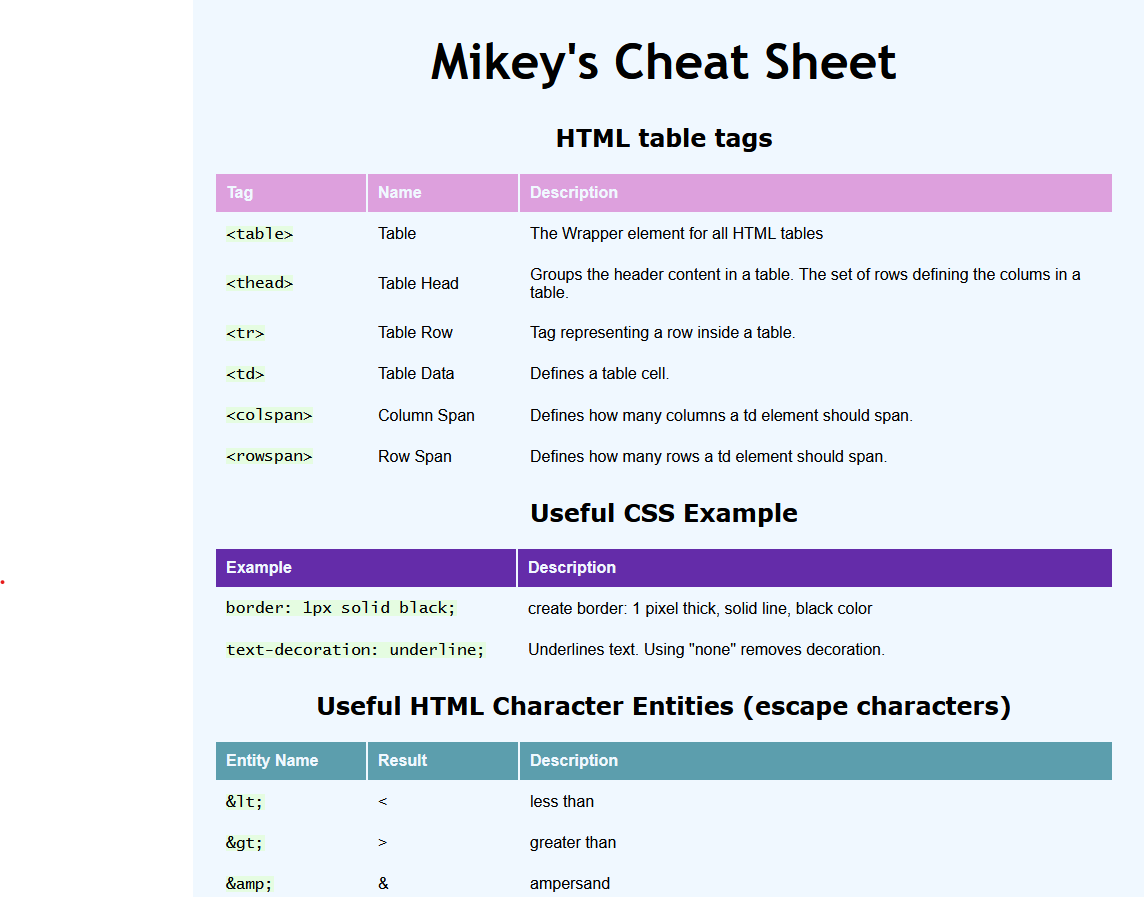
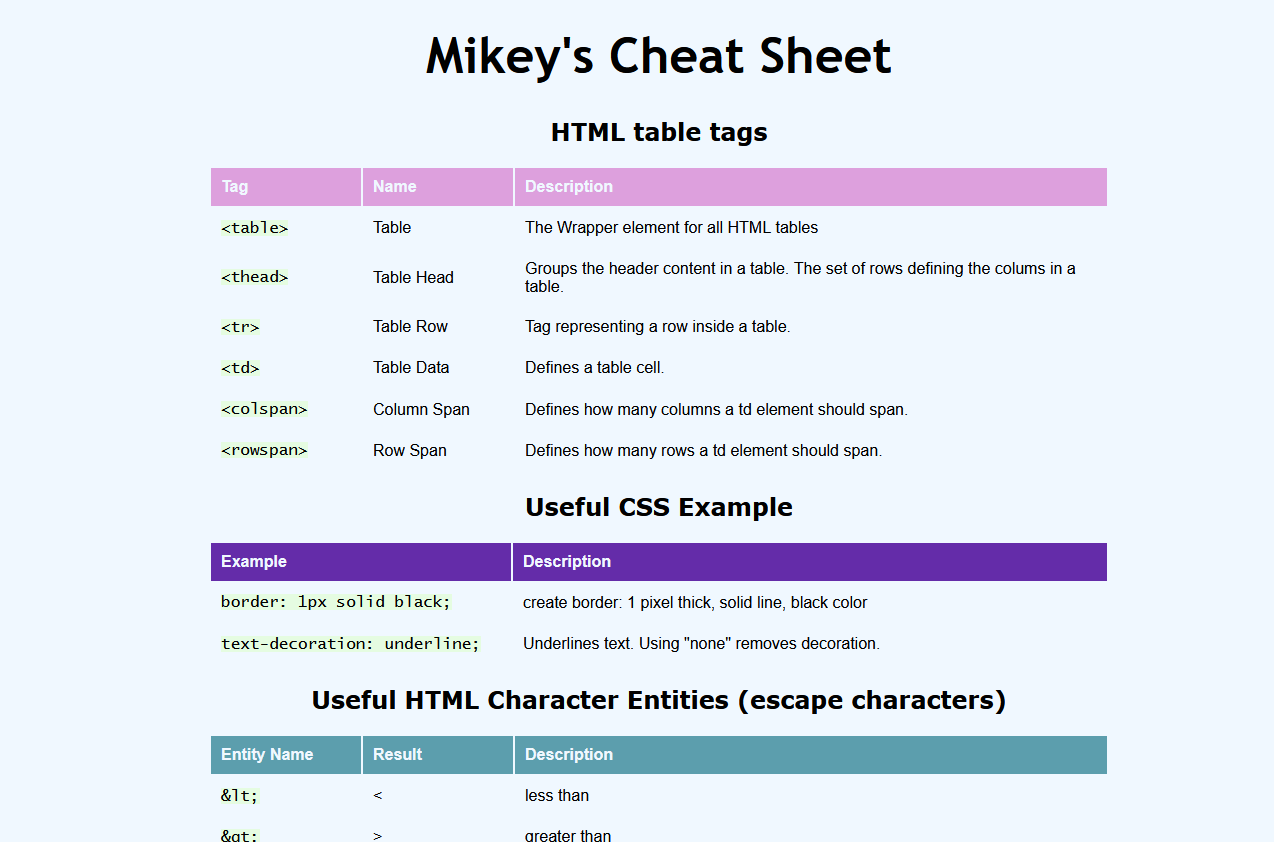
Improve style and formating
Making the headers more consistant. Made improvements tolook better on smaller screens.

Changed region(s): [[0.153, 0.1235, 0.979, 1.0], [0.3365, 0.0309, 0.7955, 0.0926]]

diff --git a/index.html b/index.html
@@ -31,8 +31,10 @@
         </p>
         <div class="project-container">
         <article> 
-          <a href="https://kanorade.github.io/cheatsheet/" target="_blank"><h2>Mikey's Cheat Sheet</h2></a>
-          <h3 class="subtitle">HTML Fundamentals, Tables, CSS Fundamentals</h3>
+          <a href="https://kanorade.github.io/cheatsheet/" target="_blank">
+            <h3>Mikey's Cheat Sheet</h3>
+          </a>
+          <h4 class="subtitle">HTML Fundamentals, Tables, CSS Fundamentals</h4>
           <section class="project-description">
             <a href="https://kanorade.github.io/cheatsheet/" target="_blank">
               <img class="preview-image" src="./resources/images/cheatsheet-preview.png" alt="Cheat Sheet Preview">
@@ -44,9 +46,9 @@
 
         <article>
           <a href="https://kanorade.github.io/website-design-system/" target="_blank">
-            <h2>Style Guide</h2>
+            <h3>Style Guide</h3>
           </a>
-          <h3 class="subtitle">Improved styling with CSS</h3>
+          <h4 class="subtitle">Improved styling with CSS</h4>
           <section class="project-description">
             <a href="https://kanorade.github.io/website-design-system/" target="_blank">
               <img class="preview-image" src="./resources/images/styleguide-preview.png" alt="Styleguide preview">
@@ -60,9 +62,9 @@
 
         <article>
           <a href="https://kanorade.github.io/Tea-Cosy/" target="_blank">
-            <h2>Fictional Tea Site</h2>
+            <h3>Fictional Tea Site</h3>
           </a>
-          <h3 class="subtitle">Making a website responsive, Layout with Flexbox</h3>
+          <h4 class="subtitle">Making a website responsive, Layout with Flexbox</h4>
           <section class="project-description">
             <a href="https://kanorade.github.io/Tea-Cosy/" target="_blank">
               <img class="preview-image" src="./resources/images//teacosy-preview.png" alt="Tea Cosy preview">

diff --git a/resources/css/style.css b/resources/css/style.css
@@ -6,27 +6,27 @@ body {
 }
 
 header {
-    margin: 15px;
+    margin: 10px;
 }
 
 main {
     max-width: 1000px;
-    margin: 20px auto;
+    margin: 10px auto;
+    padding: 0px 10px;
 }
 
-h1 {
+h1, h2, h3 {
     font-family: 'Comfortaa', Arial, Helvetica, sans-serif;
-    text-align: left;
 }
 
 .subject-title {
-    font-family: 'Domine', Arial, Helvetica, sans-serif;
     color: plum;
 }
 
 .project-container {
     display: flex;
     flex-wrap: wrap;
+    justify-content: center;
 }
 
 article {
@@ -45,21 +45,10 @@ article {
     display: flex;
 }
 
-.project-description p {
-    scroll-behavior: smooth;
-}
-
 .preview-image {
     width: 200px;
-    margin: 10px;
-}
-
-.preview-image:hover {
-    opacity: 0.8;
-}
-
-.project-description p {
-    margin: 10px;
+    margin-right: 20px;
+    text-align: center;
 }
 
 a {
